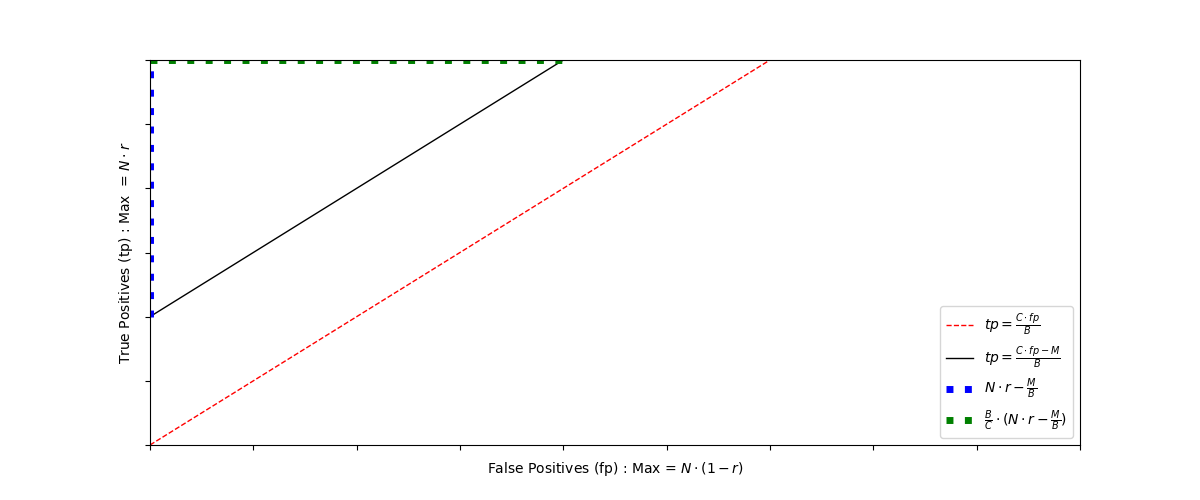
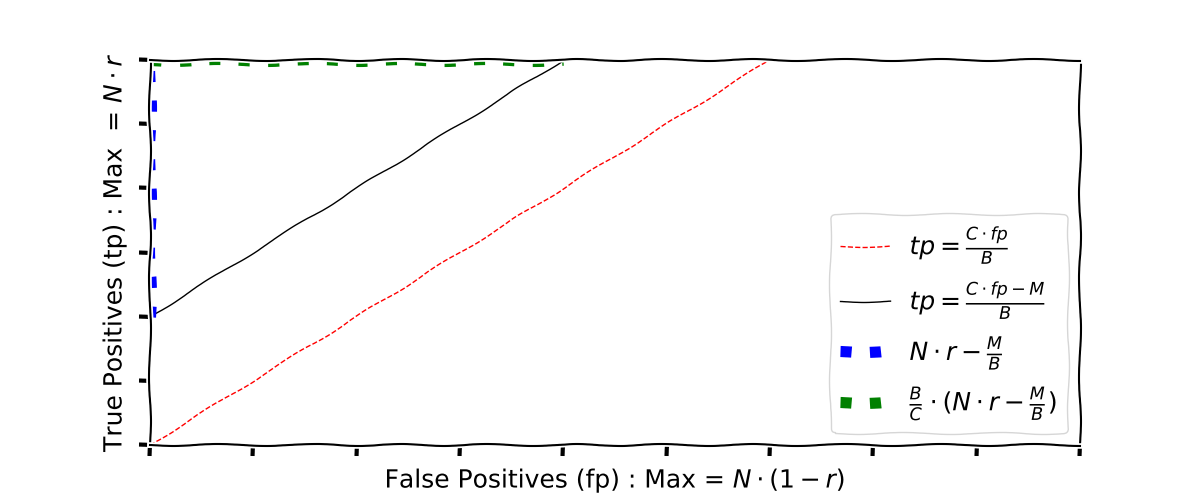
Change to xkcd plot

diff --git a/scripts/paper_simplicity_plot.py b/scripts/paper_simplicity_plot.py
@@ -2,7 +2,8 @@ import sys
 import pandas as pd
 import matplotlib.pyplot as plt
 import numpy as np
-
+plt.xkcd()
+ 
 M = 300
 b = 30
 c = 15
@@ -15,17 +16,17 @@ fig = plt.figure(figsize=(12,5))
 ax = fig.add_subplot(111)
 ax.plot(x, ll, '--r', lw=1, label='$tp = \\frac{C \cdot fp}{B}$')
 ax.plot(x, ul, '-k', lw=1, label='$tp = \\frac{C \cdot fp - M}{B}$')
-ax.plot([0,0], [M/b,100], ':b', lw=5, label="$N \cdot r - \\frac{M}{B}$")
-ax.plot([0,fplim], [30,30], ':g', lw=5, label="$\\frac{B}{C} \cdot (N \cdot r - \\frac{M}{B})$")
+ax.plot([0,0], [M/b,100], ':b', lw=8, label="$N \cdot r - \\frac{M}{B}$")
+ax.plot([0,fplim], [30,30], ':g', lw=8, label="$\\frac{B}{C} \cdot (N \cdot r - \\frac{M}{B})$")
 
 
 ax.set_xlim(0, 90)
 ax.set_ylim(0, 30)
 ax.set_xticklabels([])
 ax.set_yticklabels([])
-plt.xlabel('False Positives (fp) : Max = $N \cdot (1-r)$')
-plt.ylabel('True Positives (tp) : Max  = $N \cdot r$')
-plt.legend(loc='lower right')
+plt.xlabel('False Positives (fp) : Max = $N \cdot (1-r)$', fontsize=18 )
+plt.ylabel('True Positives (tp) : Max  = $N \cdot r$', fontsize=18)
+plt.legend(loc='lower right',  prop={'size': 18})
 
 plt.savefig("../paper/images/simplicity.png")
 
